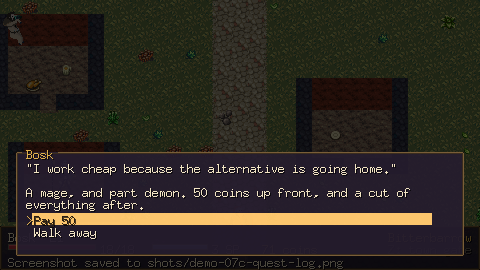
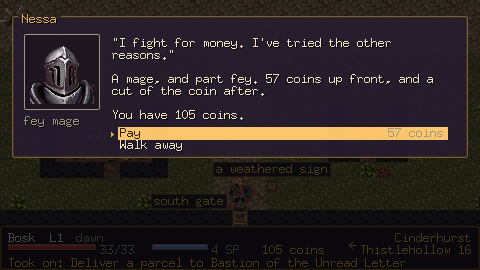
The screenshots were four layout passes out of date
Every image in the README is regenerated from the tour, which is what -demo is
for and what nobody had run against docs/screenshots since mid-August. They
predate staggering, the command list moving off the transcript, the party
standing in the field, and the errand pane learning to say what to do next.

Three captions were describing a different game as well: the battle shot is the
company facing two creatures rather than portraits beside three, the hireling in
the frame is a fey mage and not part demon, and the journal is showing a
delivery errand rather than a ruin. Fixed against what the frames actually show
rather than against what they used to.

Two changes to the tour itself, both making an existing frame document its own
screen rather than adding one.

The journal frame had its cursor on whatever sorted first, which is the long
story, so the pane underneath was the saga pane — and the errand pane is the one
that grew an objective line, a countdown and a Where row. It lands on an errand
now.

And the tour's own captures were being announced in the transcript, so
demo-07e-company carried "Screenshot saved to shots/demo-07d-hire.png" across
the bottom: every frame printing the name of the one before it, in the single
line of log the walking-around screen has. A player pressing `\` still wants to
be told it worked; the tour is written to stderr either way, which is where it
is actually being watched from.

diff --git a/internal/game/demo.go b/internal/game/demo.go
@@ -140,6 +140,26 @@ func buildDemoSteps() []demoStep {
 		{at: 214, shot: "07b-quest-offer"},
 		{at: 218, do: func(g *Game) { g.demoChoose(0) }},
 		{at: 222, do: func(g *Game) { g.Push(newQuestScene(g)) }},
+		// On an errand, not on whatever happens to be first.
+		//
+		// The journal lists three kinds of outstanding thing and the long story
+		// sorts above the errands, so the cursor landed on a saga and the pane
+		// below documented the saga pane. The errand pane is the one that grew
+		// an objective line, a countdown and a Where row, and it is what the
+		// screen is mostly for. Not a longer tour — the same one frame, showing
+		// the thing it is a frame of.
+		{at: 228, do: func(g *Game) {
+			q, ok := g.Top().(*questScene)
+			if !ok {
+				return
+			}
+			for i, it := range q.menu.Items {
+				if _, isQuest := it.Data.(*quest.Quest); isQuest {
+					q.menu.Index = i
+					return
+				}
+			}
+		}},
 		{at: 232, shot: "07c-quest-log"},
 		{at: 236, do: func(g *Game) { g.dropOverlays() }},
 

diff --git a/internal/game/game.go b/internal/game/game.go
@@ -303,7 +303,15 @@ func (g *Game) saveFrame(dst *ebiten.Image, stem string) {
 	if err := png.Encode(f, img); err != nil {
 		return
 	}
-	g.Log.Add("Screenshot saved to shots/%s", filepath.Base(name))
+	// Not into the transcript during the tour. The player pressing `\` wants to
+	// be told it worked; the tour is a sequence of frames, and telling it puts
+	// "Screenshot saved to shots/demo-07d-hire.png" across the bottom of
+	// demo-07e — every frame carrying the name of the one before it, in the one
+	// line of transcript the walking-around screen has. stderr says it either
+	// way, which is where the tour is actually being watched from.
+	if !g.InDemo() {
+		g.Log.Add("Screenshot saved to shots/%s", filepath.Base(name))
+	}
 	fmt.Fprintf(os.Stderr, "wrote %s\n", name)
 }
 

diff --git a/README.md b/README.md
@@ -16,17 +16,17 @@ that nobody in the world ever acknowledges the joke.
 
 | | |
 |---|---|
-| ![The overworld: roads and terrain with locations marked](docs/screenshots/overworld.png) | ![A turn-based battle against three monsters](docs/screenshots/battle.png) |
-| Overworld — roads, terrain, points of interest | Battle — portraits, transcript, commands |
+| ![The overworld: roads and terrain with locations marked](docs/screenshots/overworld.png) | ![A turn-based battle: the company standing in the field facing two creatures, with the transcript across the bottom](docs/screenshots/battle.png) |
+| Overworld — roads, terrain, points of interest | Battle — the company, the field, the transcript |
 | ![A town of red-roofed buildings along a paved street](docs/screenshots/town.png) | ![A dungeon of rooms and corridors with lurking creatures](docs/screenshots/dungeon.png) |
 | Town — generated from the location's seed | Dungeon — rooms, foes, chests, a boss |
 | ![A parchment map showing explored terrain](docs/screenshots/map.png) | ![The blacksmith's stock, each weapon with an icon](docs/screenshots/shop.png) |
 | The map — only what you have walked past | A shop, with icons |
-| ![The character sheet and pack](docs/screenshots/character.png) | ![The quest log, showing an errand to clear a ruin](docs/screenshots/quests.png) |
+| ![The character sheet and pack](docs/screenshots/character.png) | ![The quest log, showing a delivery errand and the line saying what to do next](docs/screenshots/quests.png) |
 | Character sheet and pack | Errands, generated from the world |
 | ![Someone outside an inn offering to join for coins](docs/screenshots/hire.png) | ![A hireling walking behind the player through a town](docs/screenshots/party.png) |
-| Hiring — cheaper, because he is part demon | The company, following you around |
-| ![A companion's sheet showing part-demon ancestry](docs/screenshots/lineage.png) | ![Choosing which party member an item is used on](docs/screenshots/targeting.png) |
+| Hiring — cheaper, because she is part fey | The company, following you around |
+| ![A companion's sheet showing part-fey ancestry](docs/screenshots/lineage.png) | ![Choosing which party member an item is used on](docs/screenshots/targeting.png) |
 | A hireling's sheet, ancestry and all | Choosing who an effect lands on |
 
 ## Running it
